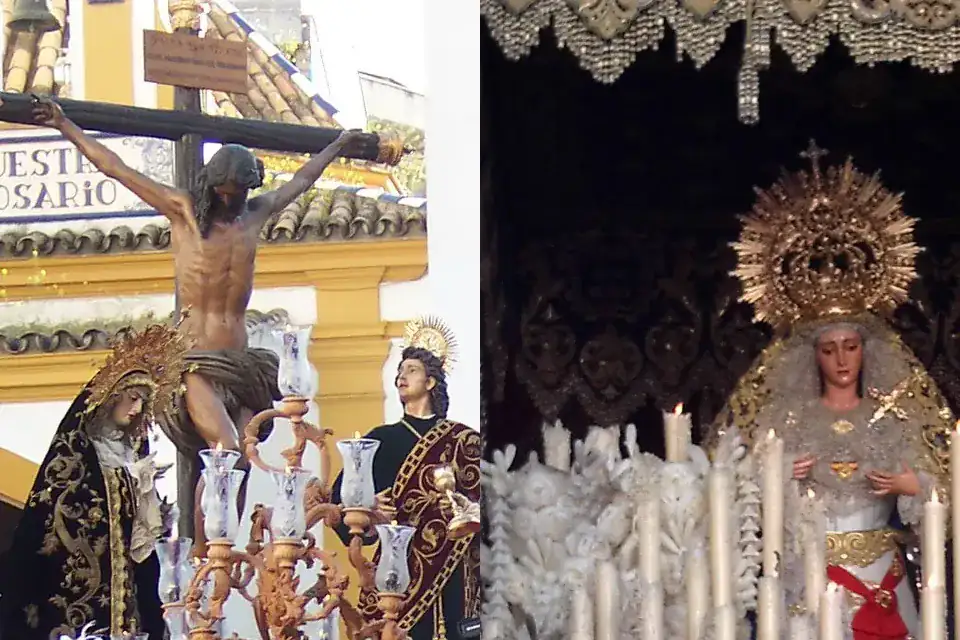
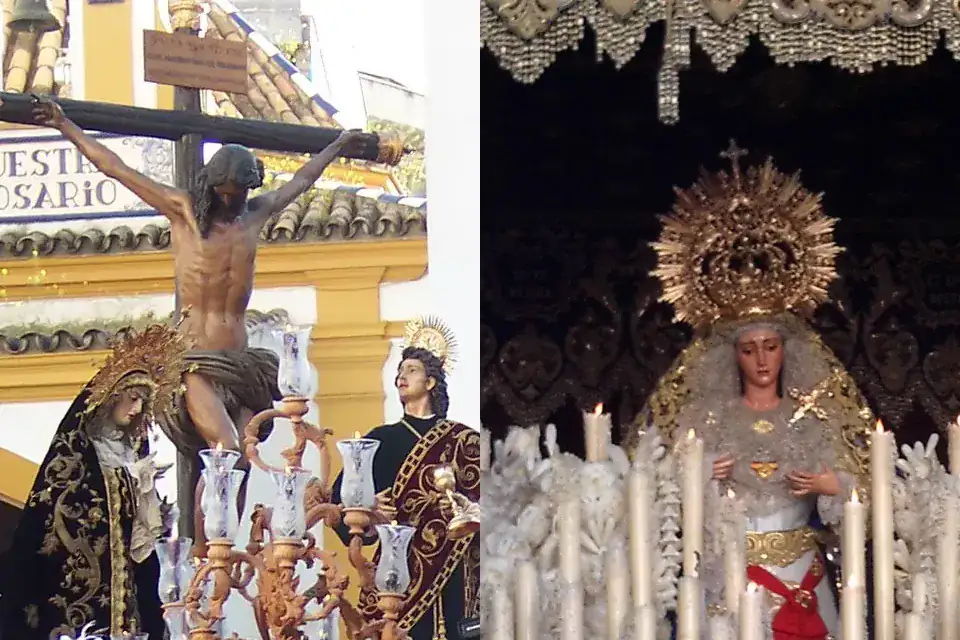
Fotos: segunda auditoría — la Soledad de Jaén servía la de Úbeda por la caché; fuera fotos borrosas, a contraluz y de licencia dudosa
- procesar-imagenes.mjs: la caché de originales lleva el nombre del archivo de Commons (antes, por hermandad y papel, y al cambiar de foto reutilizaba la anterior: la Soledad de Jaén salía con la foto de Úbeda).
- Fuera, en Sevilla: Santa Cruz, Siete Palabras, el Sol, el Cachorro, Bellavista y la Sed (borrosas o a contraluz), Sagrada Mortaja, Soledad de San Lorenzo, Santa Marta, Negritos y San Roque (de lejos o tapadas), y las fotos con autor «supuesto» en Commons (Borriquita, Cerro, Redención, Museo, Estudiantes).
- Fuera, en Córdoba: Buen Suceso y Huerto (Cristo pequeño), y Esperanza y Afligidos (marca de agua de otra persona). En Cádiz: el Cristo de Medinaceli de noche.
- Recortes corregidos: Paloma (Málaga), Aguas (Sevilla), Soledad (Jaén).

diff --git a/FOTOS-QUE-FALTAN.md b/FOTOS-QUE-FALTAN.md
@@ -65,29 +65,34 @@ En «Qué falta» van los titulares tal como figuran en el portal. Las fotos de 
 
 ## Sevilla (revisado el 2026-11-03: cada foto contra Commons y a ojo en la ficha, el listado y el plano; fuera las de otra ciudad, sin licencia libre, de lejos o de poca calidad)
 
-9 sin ninguna foto de titular; 34 con algún titular sin foto.
+19 sin ninguna foto de titular; 32 con algún titular sin foto.
 
 | Hermandad | Día | Qué falta |
 |---|---|---|
+| La Borriquita | Domingo de Ramos | **ninguna foto**; Cristo: Entrada en Jerusalén: Cristo sobre la borriquita, anónimo s. XVII |
 | Jesús Despojado | Domingo de Ramos | Virgen: María Santísima de los Dolores y Misericordia |
 | La Hiniesta | Domingo de Ramos | Cristo: Cristo de la Buena Muerte |
+| San Roque | Domingo de Ramos | Virgen: María Santísima de Gracia y Esperanza |
 | La Estrella | Domingo de Ramos | Virgen: María Santísima de la Estrella |
 | La Amargura | Domingo de Ramos | Cristo: Cristo del Silencio en el Desprecio de Herodes / San Juan Evangelista |
+| Redención | Lunes Santo | Virgen: María Santísima del Rocío |
 | Santa Genoveva | Lunes Santo | **ninguna foto**; Cristo: Nuestro Padre Jesús Cautivo; Virgen: María Santísima de las Mercedes |
+| Santa Marta | Lunes Santo | **ninguna foto**; Cristo: Santísimo Cristo de la Caridad en su Traslado al Sepulcro |
 | Las Penas | Lunes Santo | **ninguna foto**; Cristo: Nuestro Padre Jesús de las Penas; Virgen: María Santísima de los Dolores |
 | El Museo | Lunes Santo | Cristo: Santísimo Cristo de la Expiración |
-| El Cerro | Martes Santo | Virgen: María Santísima de los Dolores |
+| El Cerro | Martes Santo | **ninguna foto**; Cristo: Santísimo Cristo de los Desamparados; Virgen: María Santísima de los Dolores |
 | Los Estudiantes | Martes Santo | Virgen: María Santísima de la Angustia |
 | San Benito | Martes Santo | **ninguna foto**; Cristo: Presentación de Jesús al Pueblo / Santísimo Cristo de la Sangre; Virgen: María Santísima de la Encarnación |
 | La Candelaria | Martes Santo | Cristo: Nuestro Padre Jesús de la Salud |
 | Dulce Nombre («La Bofetá») | Martes Santo | Virgen: María Santísima del Dulce Nombre |
-| La Sed | Miércoles Santo | Virgen: María Santísima de Consolación |
+| Santa Cruz | Martes Santo | Cristo: Santísimo Cristo de las Misericordias |
+| La Sed | Miércoles Santo | **ninguna foto**; Cristo: Santísimo Cristo de la Sed; Virgen: María Santísima de Consolación |
 | San Bernardo | Miércoles Santo | Virgen: María Santísima del Refugio |
 | La Lanzada | Miércoles Santo | Virgen: María Santísima de Guía |
 | Cristo de Burgos | Miércoles Santo | Virgen: Madre de Dios de la Palma |
-| Siete Palabras | Miércoles Santo | Virgen: María Santísima de la Cabeza / María Santísima de los Remedios |
+| Siete Palabras | Miércoles Santo | **ninguna foto**; Cristo: Santísimo Cristo de las Siete Palabras; Virgen: María Santísima de la Cabeza / María Santísima de los Remedios |
 | Los Panaderos | Miércoles Santo | Virgen: María Santísima de Regla |
-| Los Negritos | Jueves Santo | Virgen: Nuestra Señora de los Ángeles |
+| Los Negritos | Jueves Santo | **ninguna foto**; Cristo: Santísimo Cristo de la Fundación; Virgen: Nuestra Señora de los Ángeles |
 | La Exaltación («Los Caballos») | Jueves Santo | Cristo: Exaltación de Cristo en la Cruz |
 | Las Cigarreras | Jueves Santo | Cristo: Jesús atado a la Columna |
 | Montesión | Jueves Santo | **ninguna foto**; Cristo: Oración en el Huerto; Virgen: María Santísima del Rosario en sus Misterios Dolorosos |
@@ -100,32 +105,36 @@ En «Qué falta» van los titulares tal como figuran en el portal. Las fotos de 
 | La Carretería | Viernes Santo | **ninguna foto**; Cristo: Santísimo Cristo de la Salud; Virgen: Nuestra Señora de la Luz / María Santísima del Mayor Dolor en su Soledad |
 | San Isidoro | Viernes Santo | **ninguna foto**; Cristo: Nuestro Padre Jesús de las Tres Caídas; Virgen: María Santísima de Loreto |
 | San Buenaventura | Viernes Santo | **ninguna foto**; Cristo: Crucificado titular; Virgen: Dolorosa titular |
+| La Sagrada Mortaja | Viernes Santo | **ninguna foto**; Cristo: Misterio de la Sagrada Mortaja |
+| El Cachorro | Viernes Santo | Cristo: Santísimo Cristo de la Expiración «El Cachorro» |
 | Los Servitas | Sábado Santo | Virgen: María Santísima de los Dolores |
 | La Trinidad | Sábado Santo | Virgen: María Santísima de la Esperanza |
 | El Santo Entierro | Sábado Santo | Cristo: Cristo Yacente en la urna / Triunfo de la Santa Cruz sobre la muerte («La Canina») |
+| La Soledad de San Lorenzo | Sábado Santo | **ninguna foto**; Virgen: Nuestra Señora de la Soledad |
 | La Resurrección | Domingo de Resurrección | Cristo: Sagrada Resurrección |
-| Bellavista | Viernes de Dolores | Virgen: María Santísima del Dulce Nombre en sus Dolores y Compasión |
+| Bellavista | Viernes de Dolores | **ninguna foto**; Cristo: Nuestro Padre Jesús de la Salud y Remedios; Virgen: María Santísima del Dulce Nombre en sus Dolores y Compasión |
 | Pino Montano | Viernes de Dolores | **ninguna foto**; Cristo: Nuestro Padre Jesús de Nazaret / San Marcos Evangelista / San Isidro Labrador; Virgen: María Santísima del Amor |
 | La Misión | Viernes de Dolores | Virgen: Inmaculado Corazón de María |
 | Cristo de la Corona | Viernes de Dolores | Virgen: Nuestra Señora del Rosario |
 | Padre Pío | Sábado de Pasión | Cristo: Santísimo Sacramento / Nuestro Padre Jesús de la Salud y Clemencia / San Juan de la Cruz |
 | La Milagrosa | Sábado de Pasión | **ninguna foto**; Cristo: Jesús de la Esperanza / San Juan Evangelista; Virgen: Virgen de la Medalla Milagrosa / Virgen del Rosario |
 | Divino Perdón | Sábado de Pasión | Cristo: Jesús del Divino Perdón |
-| El Sol | Sábado Santo | Virgen: María Santísima de la Salud |
+| El Sol | Sábado Santo | **ninguna foto**; Cristo: Santo Cristo Varón de Dolores de la Divina Misericordia; Virgen: María Santísima de la Salud |
 
 ## Córdoba (revisado el 2026-11-03: cada foto contra Commons y a ojo en la ficha, el listado y el plano; fuera las de otra ciudad, sin licencia libre, de lejos o de poca calidad)
 
-9 sin ninguna foto de titular; 14 con algún titular sin foto.
+13 sin ninguna foto de titular; 12 con algún titular sin foto.
 
 | Hermandad | Día | Qué falta |
 |---|---|---|
 | Entrada Triunfal | Domingo de Ramos | Virgen: Nuestra Señora de la Palma / María Santísima de la Victoria |
 | Penas de Santiago | Domingo de Ramos | Virgen: Nuestra Señora Madre de los Desamparados |
 | Vera Cruz | Domingo de Ramos | Cristo: Nuestro Señor de los Reyes |
-| La Esperanza | Domingo de Ramos | Cristo: Nuestro Padre Jesús de las Penas |
+| La Esperanza | Domingo de Ramos | **ninguna foto**; Cristo: Nuestro Padre Jesús de las Penas; Virgen: María Santísima de la Esperanza |
+| El Huerto | Domingo de Ramos | **ninguna foto**; Cristo: Nuestro Padre Jesús de la Oración en el Huerto / Jesús Amarrado a la Columna; Virgen: María Santísima de la Candelaria |
 | La Estrella | Lunes Santo | **ninguna foto**; Cristo: Nuestro Padre Jesús de la Redención; Virgen: Nuestra Señora de la Estrella |
 | Ánimas | Lunes Santo | Virgen: Nuestra Señora Madre de Dios en sus Tristezas |
-| El Buen Suceso | Martes Santo | Virgen: Nuestra Señora de los Dolores / María Santísima de la Caridad |
+| El Buen Suceso | Martes Santo | **ninguna foto**; Cristo: Nuestro Padre Jesús del Buen Suceso; Virgen: Nuestra Señora de los Dolores / María Santísima de la Caridad |
 | El Prendimiento | Martes Santo | Virgen: Nuestra Señora de la Piedad |
 | El Perdón | Miércoles Santo | Virgen: María Santísima del Rocío y Lágrimas |
 | La Pasión | Miércoles Santo | Cristo: Nuestro Padre Jesús de la Pasión |
@@ -140,6 +149,7 @@ En «Qué falta» van los titulares tal como figuran en el portal. Las fotos de 
 | Los Dolores | Viernes Santo | Cristo: Santísimo Cristo de la Clemencia |
 | Santo Sepulcro | Viernes Santo | **ninguna foto**; Cristo: Nuestro Señor Jesucristo del Santo Sepulcro |
 | El Resucitado | Domingo de Resurrección | **ninguna foto**; Cristo: Nuestro Señor Resucitado |
+| Presentación al Pueblo | Lunes Santo | **ninguna foto**; Cristo: Nuestro Padre Jesús de los Afligidos |
 | Dolores de Alcolea | Viernes Santo | **ninguna foto**; Virgen: María Santísima de los Dolores |
 | La Sangre de El Higuerón | Sábado de Pasión | **ninguna foto**; Cristo: Santísimo Cristo de la Sangre / Nuestro Padre Jesús Nazareno de la Compasión / San Isidro Labrador |
 
@@ -174,7 +184,7 @@ En «Qué falta» van los titulares tal como figuran en el portal. Las fotos de 
 
 ## Cádiz (revisado el 2026-11-03: cada foto contra Commons y a ojo en la ficha, el listado y el plano; fuera las de otra ciudad, sin licencia libre, de lejos o de poca calidad)
 
-21 sin ninguna foto de titular; 6 con algún titular sin foto.
+21 sin ninguna foto de titular; 7 con algún titular sin foto.
 
 | Hermandad | Día | Qué falta |
 |---|---|---|
@@ -196,6 +206,7 @@ En «Qué falta» van los titulares tal como figuran en el portal. Las fotos de 
 | Las Aguas | Miércoles Santo | Virgen: María Santísima de Guadalupe |
 | Los Afligidos | Jueves Santo y Madrugada | **ninguna foto**; Cristo: Nuestro Padre Jesús de los Afligidos; Virgen: María Santísima de los Desconsuelos |
 | Oración en el Huerto | Jueves Santo y Madrugada | **ninguna foto**; Cristo: Nuestro Padre Jesús de la Oración en el Huerto; Virgen: Nuestra Señora de Gracia y Esperanza |
+| Medinaceli | Jueves Santo y Madrugada | Cristo: Nuestro Padre Jesús Cautivo y Rescatado |
 | Nazareno de Santa María | Jueves Santo y Madrugada | **ninguna foto**; Cristo: Nuestro Padre Jesús Nazareno; Virgen: María Santísima de los Dolores |
 | El Perdón | Jueves Santo y Madrugada | Virgen: María Santísima del Rosario |
 | El Descendimiento | Viernes Santo | Virgen: Nuestra Señora de los Dolores |
